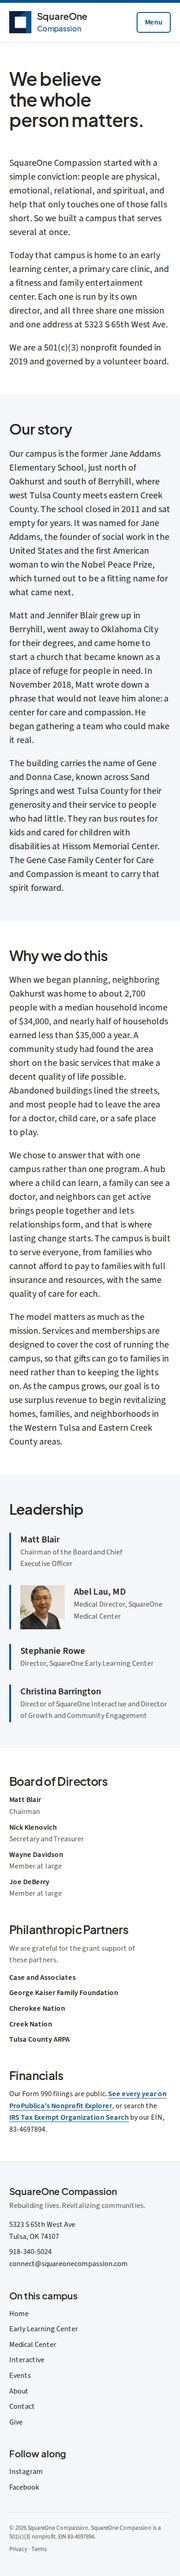
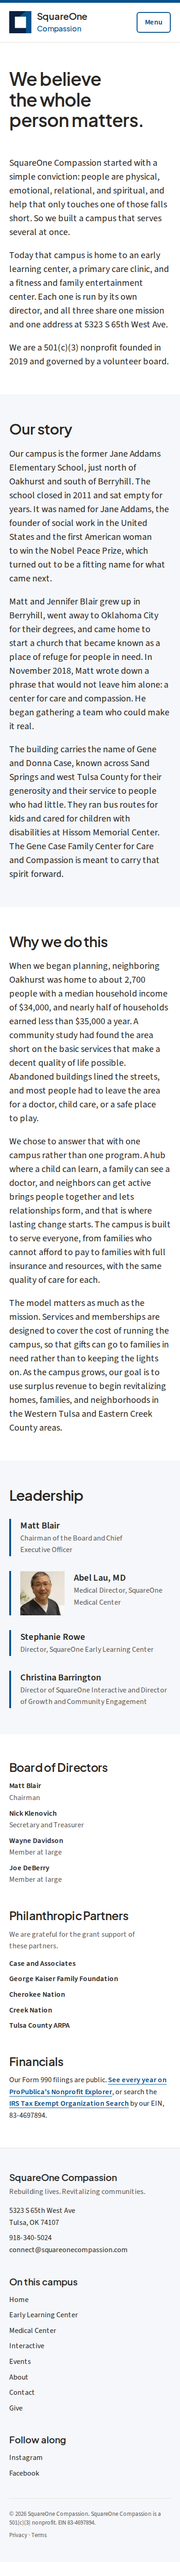
About: drop the county line from the campus location
Claude-Session: https://claude.ai/code/session_01Dy1NBE1CDjARVuM4emY1ru

Changed region(s): [[0.0308, 0.0312, 0.9231, 0.9667]]

diff --git a/app/about/page.tsx b/app/about/page.tsx
@@ -37,7 +37,7 @@ export default function AboutPage() {
         <h2 className="text-2xl">Our story</h2>
         <div className="prose-block mt-5 space-y-5 text-lg">
           <p>
-            Our campus is the former Jane Addams Elementary School, just north of Oakhurst and south of Berryhill, where west Tulsa County meets eastern Creek County. The school closed in 2011 and sat empty for years. It was named for Jane Addams, the founder of social work in the United States and the first American woman to win the Nobel Peace Prize, which turned out to be a fitting name for what came next.
+            Our campus is the former Jane Addams Elementary School, just north of Oakhurst and south of Berryhill. The school closed in 2011 and sat empty for years. It was named for Jane Addams, the founder of social work in the United States and the first American woman to win the Nobel Peace Prize, which turned out to be a fitting name for what came next.
           </p>
           <p>
             Matt and Jennifer Blair grew up in Berryhill, went away to Oklahoma City for their degrees, and came home to start a church that became known as a place of refuge for people in need. In November 2018, Matt wrote down a phrase that would not leave him alone: a center for care and compassion. He began gathering a team who could make it real.

diff --git a/content/COPY.md b/content/COPY.md
@@ -77,7 +77,7 @@ We are a 501(c)(3) nonprofit founded in 2019 and governed by a volunteer board.
 
 **Our story** (from the original proposal, docs-source/business-plan.pdf)
 
-Our campus is the former Jane Addams Elementary School, just north of Oakhurst and south of Berryhill, where west Tulsa County meets eastern Creek County. The school closed in 2011 and sat empty for years. It was named for Jane Addams, the founder of social work in the United States and the first American woman to win the Nobel Peace Prize, which turned out to be a fitting name for what came next.
+Our campus is the former Jane Addams Elementary School, just north of Oakhurst and south of Berryhill. The school closed in 2011 and sat empty for years. It was named for Jane Addams, the founder of social work in the United States and the first American woman to win the Nobel Peace Prize, which turned out to be a fitting name for what came next.
 
 Matt and Jennifer Blair grew up in Berryhill, went away to Oklahoma City for their degrees, and came home to start a church that became known as a place of refuge for people in need. In November 2018, Matt wrote down a phrase that would not leave him alone: a center for care and compassion. He began gathering a team who could make it real.
 
